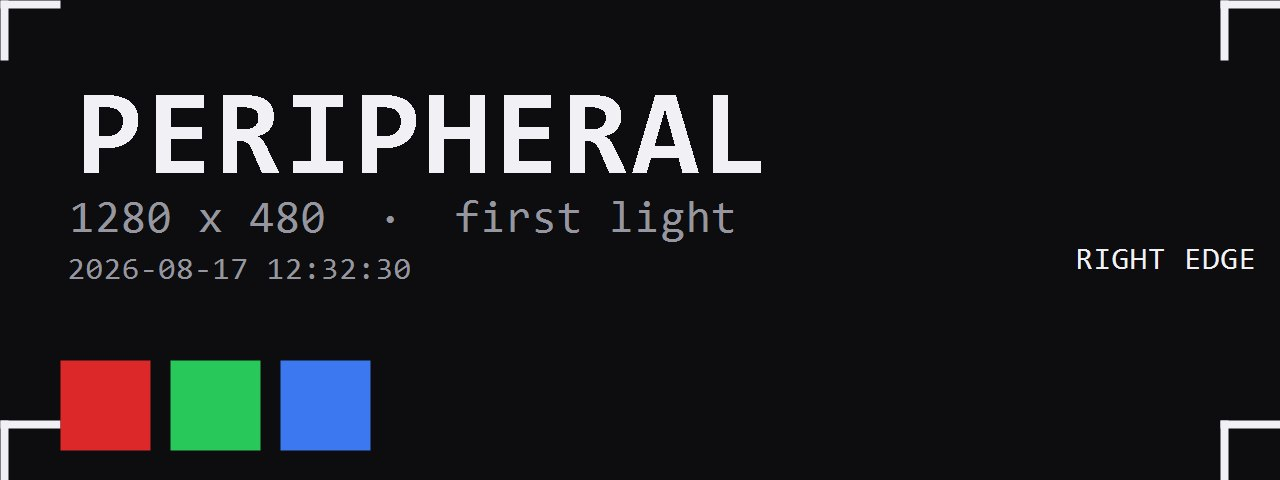
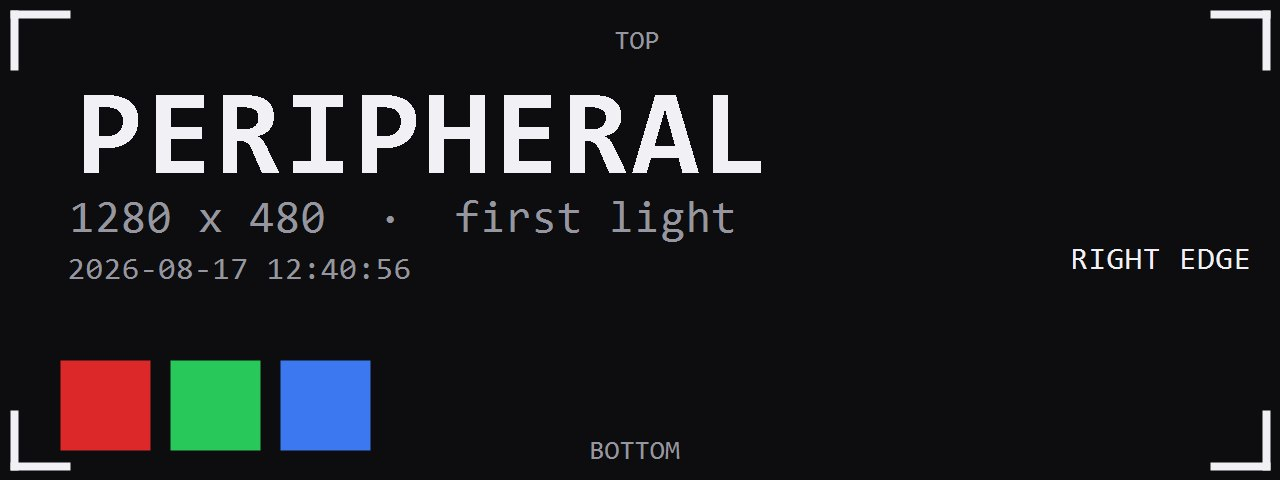
feat(hid): first light, and the panel's ~3s idle timeout
A rendered 1280x480 JPEG is on the glass. Confirmed by eye: full width arrives,
RGB channel order correct, geometry right.

Measured the revert-to-logo behaviour rather than guessing at it. The firmware
discards the pushed frame and falls back to its boot logo roughly 3 seconds
after the last frame it received. Holding the USB handle open does NOT preserve
the image; only a new frame does.

Three phases in one run separated the two candidate causes:

  one frame then silence, handle open  -> reverted at ~3s
  1 fps for 15s                        -> steady, no flicker
  after the last frame, handle closed  -> reverted ~2s later, not instantly

That last phase is what rules out handle-close as the trigger: if releasing the
handle mattered, the image would have dropped the moment it closed instead of
riding out the same ~3s window.

Consequences, which are architectural rather than cosmetic:

project_goals.md principle 3 is amended from "never render blank" to "never
render blank -- and never STOP rendering." An idle daemon is a blank panel.
There is no "content unchanged, skip this frame" optimisation available; that is
a blank panel with extra steps.

The daemon's push loop and render loop must therefore be separate. Push runs
unconditionally at 1 fps and always ships the most recent frame available;
render updates that frame whenever it can. A screenshot that takes 800ms is
fine, one that hangs for 10s must not be able to stall the push. Recorded in the
[…]

diff --git a/src/transport/idle-test.js b/src/transport/idle-test.js
@@ -1,0 +1,105 @@
+/* idle-test.js — does the panel revert to its logo when we stop pushing?
+ *
+ *   npm run idle-test
+ *
+ * WHY THIS EXISTS
+ * The panel reverts to its built-in boot logo a few seconds after `npm run send`
+ * exits. Two candidate causes, and they imply different daemon designs:
+ *
+ *   A) inactivity timeout  — the firmware gives up on a pushed frame after N
+ *      seconds without a new one. The daemon must then push FOREVER, even when
+ *      nothing on screen has changed.
+ *   B) handle close        — the firmware drops the pushed frame when the USB
+ *      handle is released. Holding the device open would then be enough, and
+ *      the frame rate could be as low as we like.
+ *
+ * ── RESULT, 2026-08-17, on the actual unit ───────────────────────────────
+ * ANSWER: (A) inactivity timeout, ~3 seconds. The handle is irrelevant.
+ *
+ *   PHASE A  reverted at ~3s with the handle still open
+ *   PHASE B  steady for the full 15s at 1 fps, no flicker
+ *   PHASE C  reverted ~2s after the final frame, NOT on the close itself
+ *
+ * Phase C is the one that settles it: if releasing the handle were the trigger,
+ * the image would have dropped instantly instead of riding out the same ~3s.
+ *
+ * Times are stopwatch-measured, +/- a second or two. Re-run this after a
+ * firmware change or on a replacement unit rather than trusting the number.
+ *
+ * This separates them:
+ *   PHASE A  one frame, then the handle stays OPEN with nothing sent
+ *   PHASE B  1 fps, to check that a slow keepalive is sufficient
+ *   PHASE C  release the handle and watch
+ *
+ * Requires a human watching the glass. Run it, watch, report.
+ */
+
+import { readFile } from 'node:fs/promises';
+import { PanelTransport } from './hid.js';
+
+const LEAD_IN_S = 10;
+const PHASE_A_S = 30;
+const PHASE_B_S = 15;
+const PHASE_C_S = 12;
+
+const sleep = (ms) => new Promise((r) => setTimeout(r, ms));
+const rule = (s) => console.log(`\n${'='.repeat(64)}\n${s}\n${'='.repeat(64)}`);
+
+const jpeg = await readFile(new URL('../../docs/first-light.jpg', import.meta.url));
+
+const panel = new PanelTransport();
+if (!(await panel.open())) {
+  console.error(`open failed: ${panel.lastError?.message}`);
+  process.exit(1);
+}
+
+rule('LOOK AT THE PANEL NOW');
+console.log('Three phases. What matters is WHEN the image gives way to the logo.\n');
+for (let s = LEAD_IN_S; s > 0; s--) {
+  process.stdout.write(`\r  starting in ${s}s...   `);
+  await sleep(1000);
+}
+console.log('\r  GO                    ');
+
+// ── PHASE A ────────────────────────────────────────────────────────────────
+rule(`PHASE A — one frame, then ${PHASE_A_S}s of SILENCE (handle stays open)`);
+await panel.push(jpeg);
+console.log('frame sent. Counting seconds since it landed:\n');
+for (let s = 1; s <= PHASE_A_S; s++) {
+  await sleep(1000);
+  // One line per second so the elapsed time is recoverable afterwards.
+  console.log(`  t+${String(s).padStart(2)}s   nothing sent, handle open`);
+}
+console.log('\nPHASE A over. Zero frames sent for the whole window.');
+console.log('>>> Did it revert? At roughly which t+ value?');
+
+// ── PHASE B ────────────────────────────────────────────────────────────────
+rule(`PHASE B — pushing at 1 fps for ${PHASE_B_S}s`);
+console.log('Watch for a steady image vs. flicker between image and logo.\n');
+let failures = 0;
+for (let s = 1; s <= PHASE_B_S; s++) {
+  const ok = await panel.push(jpeg);
+  if (!ok) failures++;
+  console.log(`  frame ${String(s).padStart(2)}/${PHASE_B_S}  ${ok ? 'ok' : 'FAILED'}`);
+  await sleep(1000);
+}
+console.log(`\nPHASE B over. ${PHASE_B_S - failures}/${PHASE_B_S} accepted.`);
+console.log('>>> Did it stay up continuously, or flicker?');
+
+// ── PHASE C ────────────────────────────────────────────────────────────────
+rule('PHASE C — releasing the USB handle');
+console.log('The last frame was sent ~1s ago. Closing the handle NOW.\n');
+await panel.close();
+console.log('handle closed.');
+for (let s = 1; s <= PHASE_C_S; s++) {
+  await sleep(1000);
+  console.log(`  t+${String(s).padStart(2)}s   handle closed`);
+}
+console.log('\n>>> Did it revert the instant the handle closed, or later?');
+
+rule('SUMMARY OF WHAT TO REPORT');
+console.log('  1. PHASE A — reverted? at roughly which second?');
+console.log('  2. PHASE B — steady, or flickering?');
+console.log('  3. PHASE C — reverted immediately on close, or on a delay?');
+console.log('\nA revert in A but not B  => inactivity timeout; daemon must never stop.');
+console.log('No revert in A, only in C => handle-close; frame rate can be anything.');

diff --git a/src/transport/hid.js b/src/transport/hid.js
@@ -74,6 +74,36 @@ const CHUNK = 512;              // == OUT endpoint maxPacketSize, measured
 const CMD_PICTURE = 0x02;
 const FRAME_SETTLE_MS = 1;      // _DELAY_FRAME_TYPE2_S in the reference
 
+/**
+ * MEASURED ON HARDWARE 2026-08-17 — the panel's inactivity timeout.
+ *
+ * The firmware discards the pushed frame and falls back to its built-in boot
+ * logo roughly 3 seconds after the last frame it received. Confirmed three ways
+ * in one run of `npm run idle-test`:
+ *
+ *   - one frame then silence, handle held OPEN -> reverted at ~3s
+ *   - 1 fps for 15s                            -> stayed up the whole time
+ *   - after the last frame, handle released    -> reverted ~2s later
+ *
+ * The handle is irrelevant; only time-since-last-frame matters. If closing the
+ * handle were the trigger, the third case would have reverted instantly.
+ *
+ * Consequence: the daemon must push UNCONDITIONALLY and forever. There is no
+ * "content unchanged, skip this frame" optimisation available — that is just a
+ * blank panel with extra steps. See project_goals.md principle 3.
+ *
+ * Timings are stopwatch-measured and carry a second or two of human error, so
+ * treat 3000ms as approximate and keep real margin under it.
+ */
+export const IDLE_TIMEOUT_MS = 3000;
+
+/**
+ * The slowest safe push cadence. 1 fps sits ~3x inside the measured timeout,
+ * which absorbs a late frame without the panel dropping. Do not raise this
+ * above ~1500ms without re-running `npm run idle-test` on the actual unit.
+ */
+export const KEEPALIVE_INTERVAL_MS = 1000;
+
 /** Round up to the next multiple of CHUNK. Frames are 512-aligned. */
 const alignUp = (n) => Math.ceil(n / CHUNK) * CHUNK;
 

diff --git a/CLAUDE.md b/CLAUDE.md
@@ -55,7 +55,25 @@ Rules that follow from it:
 | Status channel | Interface 0, ep `0x83` IN INTERRUPT, 8-byte packets |
 | HID usage | usagePage `0xff06`, usage `0x0001` (vendor-defined) |
 | Strings | manufacturer and product both `USBDISPLAY` |
+| Handshake | replies `PM=128 SUB=1` + serial — confirms a 1280×480 Trofeo Vision |
+| **Idle timeout** | **~3 s. Stop pushing and it reverts to its boot logo.** |
 | Mount | Magnetic back |
+
+### The panel forgets — push forever
+Measured 2026-08-17 with `npm run idle-test`: the firmware discards the pushed
+frame and falls back to its boot logo **~3 seconds** after the last frame it
+received. Holding the USB handle open does **not** preserve the image; only a
+new frame does.
+
+This is not a bug to work around, it is the operating model. **An idle daemon is
+a blank panel.** There is no "content unchanged, skip this frame" optimisation —
+that is a blank panel with extra steps.
+
+It also forces the daemon's shape: **the push loop and the render loop must be
+separate.** Push runs unconditionally at 1 fps and always ships the most recent
+frame available. Render updates that frame whenever it can. A Playwright
+screenshot that takes 800 ms is fine; one that hangs for 10 s must not be able to
+stall the push, or the panel goes to logo while the daemon is busy "working."
 
 **Arrived and connected 2026-08-17** — a day early. Enumerates cleanly; nothing
 has been written to it yet.
@@ -193,6 +211,19 @@ interchangeably. Nothing else in the build depends on which one we get.
 - Type scale is tuned for 6.86" read from ~3 feet, not for a desktop monitor.
 
 ## Lessons Learned
+- **2026-08-17 — The panel reverts to its logo ~3s after the last frame.** The
+  USB handle being open is irrelevant; only time-since-last-frame counts. This
+  turns "never render blank" into "never *stop* rendering" and forces the push
+  loop to be independent of the render loop. Measured with `npm run idle-test`,
+  which exists so the number can be re-derived rather than trusted.
+  **Standing rule:** any behaviour a device exhibits that we can't explain gets a
+  committed diagnostic script, not a note. The script survives a firmware
+  revision and a replacement unit; the note doesn't.
+- **2026-08-17 — "Accepted" and "displayed" are different claims.** The very
+  first frame push reported 81/81 chunks written with no errors while the panel
+  showed nothing, because a bad `readTimeout` call had silently skipped the
+  handshake. Transport success proves bytes moved, never that pixels changed.
+  Any transport tool must say so out loud and ask for eyes on the glass.
 - **2026-08-17 — Never use the wallpaper as a bitmap background.** The
   screenshot that inspired this project did, and the type was unreadable. The
   wallpaper's own dominant colours were measured at brightness 0.72–0.84. Hue

diff --git a/CHANGELOG.md b/CHANGELOG.md
@@ -144,6 +144,36 @@ pushes a frame to real glass.
     rather than into the repo, per the sync-lock lesson. The repo is still a bare
     clone with no `node_modules`.
 
+- **FIRST LIGHT, 2026-08-17.** A rendered 1280×480 JPEG is on the glass. The
+  full chain works: build frame → HID → panel.
+  - Type 2 wire protocol implemented in `src/transport/hid.js` from the protocol
+    reference rather than guessed. Handshake returns `PM=128 SUB=1` with a valid
+    serial — the reference's documented signature for a 1280×480 Trofeo Vision,
+    so the panel identified itself rather than being assumed.
+  - Verified on the glass by eye: full 1280 width arrives, RGB channel order is
+    correct, geometry is right.
+  - `npm run send -- <file.jpg>` added as the standing transport debug tool, and
+    `docs/first-light.jpg` as a test frame with inward-pointing corner brackets,
+    edge labels and RGB swatches, so orientation and channel order are checkable
+    at a glance.
+- **The panel's idle timeout is ~3 seconds** — measured, not assumed, with the
+  new `npm run idle-test`. The firmware discards the pushed frame and reverts to
+  its boot logo about 3s after the last frame received. **Holding the USB handle
+  open does not preserve the image; only a new frame does.**
+  - Three phases separated the causes in one run: one frame then silence with the
+    handle open reverted at ~3s; 1 fps for 15s stayed rock steady; and after the
+    final frame the image survived ~2s past the handle close rather than dropping
+    instantly. That last phase is what rules out handle-close as the trigger.
+  - `project_goals.md` principle 3 amended from "never render blank" to **"never
+    render blank — and never *stop* rendering."** An idle daemon is a blank
+    panel; there is no "content unchanged, skip this frame" optimisation.
+  - Forces the daemon's architecture: **push loop and render loop must be
+    separate.** Push runs unconditionally at 1 fps shipping the most recent frame
+    available; render updates that frame whenever it can. A screenshot that hangs
+    must not be able to stall the push.
+  - `IDLE_TIMEOUT_MS` and `KEEPALIVE_INTERVAL_MS` exported from `hid.js` with the
+    measurement recorded beside them.
+
 ### Known unknowns
 - **Whether Balcom permits third-party OAuth app access.** The entire calendar
   plan rests on this one untested assumption. If it is blocked, the only

diff --git a/directives/project_goals.md b/directives/project_goals.md
@@ -26,9 +26,21 @@ done properly beats four half-built.
    about three feet.
 2. **Read-only, everywhere.** Peripheral never writes to a calendar, never
    sends anything, never acknowledges an invite. It is a window, not a door.
-3. **Never render blank.** A dead network, an expired token, or a crashed source
-   must degrade to last-known-good data with a visible stale marker. A blank
-   ambient display is worse than a wrong one, because you stop trusting it.
+3. **Never render blank — and never *stop* rendering.** A dead network, an
+   expired token, or a crashed source must degrade to last-known-good data with
+   a visible stale marker. A blank ambient display is worse than a wrong one,
+   because you stop trusting it.
+
+   *Amended 2026-08-17, measured on hardware:* the panel reverts to its built-in
+   boot logo roughly **3 seconds** after the last frame it received. Holding the
+   USB handle open does not preserve the image — only a new frame does. So the
+   second half of this principle is not a metaphor. **An idle daemon is a blank
+   panel.** There is no quiet period, no "nothing changed so skip this frame,"
+   and no render slow enough to be worth waiting for. The push loop runs
+   unconditionally at a fixed cadence and always ships the most recent frame it
+   has, even if that frame is minutes old and stale-marked. Anything that can
+   block the push loop — a slow screenshot, a hung source, a retry — must be
+   moved off it.
 4. **Local by default.** No cloud component. The panel is USB-powered by this
    PC; if the PC is asleep the screen is dark anyway, so there is nothing for a
    server to do. A calendar token should not exist anywhere it doesn't need to.

diff --git a/directives/roadmap.md b/directives/roadmap.md
@@ -39,10 +39,16 @@ Sprints are thematic, not time-boxed. `- [x]` marks done; nothing is deleted.
       *(2026-08-17, a day early. Enumerates cleanly. Frame channel measured:
       interface 0, ep 0x82 OUT INTERRUPT, 512-byte packets. Interface 1 is a
       zero-endpoint WinUSB decoy. Nothing written to the device yet.)*
-- [ ] **Read the handshake + frame header off the protocol reference** — the last
-      unknowns before any byte is written. Do not guess; 19% one-star failure rate
-- [ ] **HID transport: JPEG frame push at 1 fps**
-- [ ] Playwright renderer: screenshot localhost → JPEG → transport
+- [x] Read the handshake + frame header off the protocol reference
+- [x] **HID transport: JPEG frame push — FIRST LIGHT 2026-08-17.** Handshake
+      returns PM=128 SUB=1; a 1280×480 JPEG renders on the glass with correct
+      geometry and channel order
+- [x] Measure the panel's idle behaviour (`npm run idle-test`) — reverts to its
+      boot logo ~3s after the last frame; the USB handle is irrelevant
+- [ ] **Playwright renderer: screenshot localhost → JPEG → transport**
+- [ ] **Daemon: push loop and render loop SEPARATE** — push unconditionally at
+      1 fps shipping the latest available frame; render updates it when it can.
+      A hung screenshot must never stall the push (see the ~3s idle timeout)
 - [ ] Daemon: wire sources → state → render → push, with last-good-state cache
 - [ ] Run on login (Task Scheduler), survive panel disconnect without dying
 
